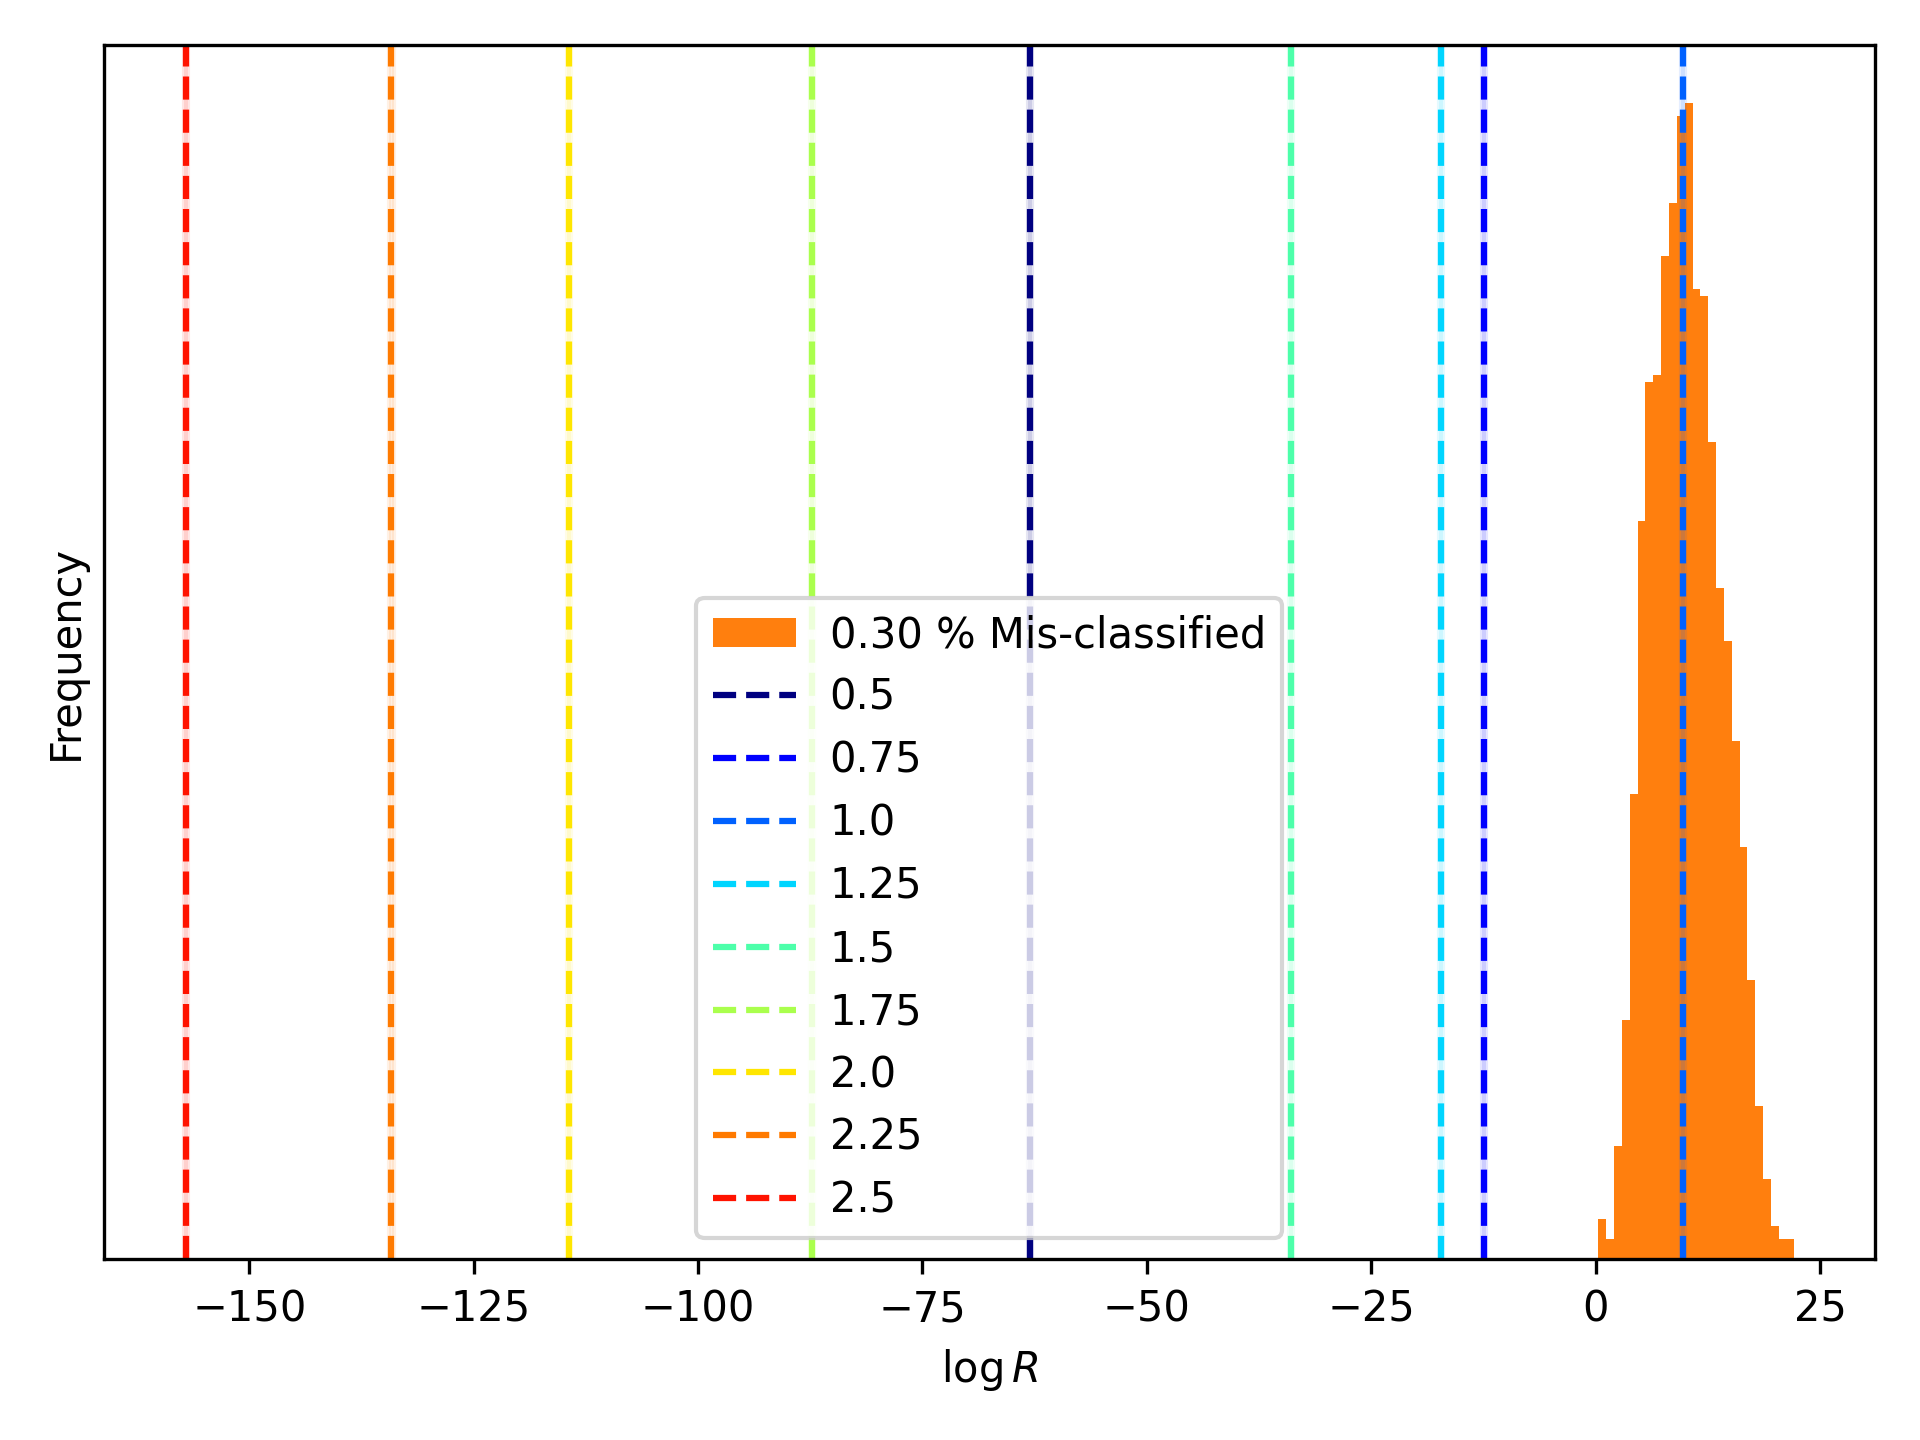
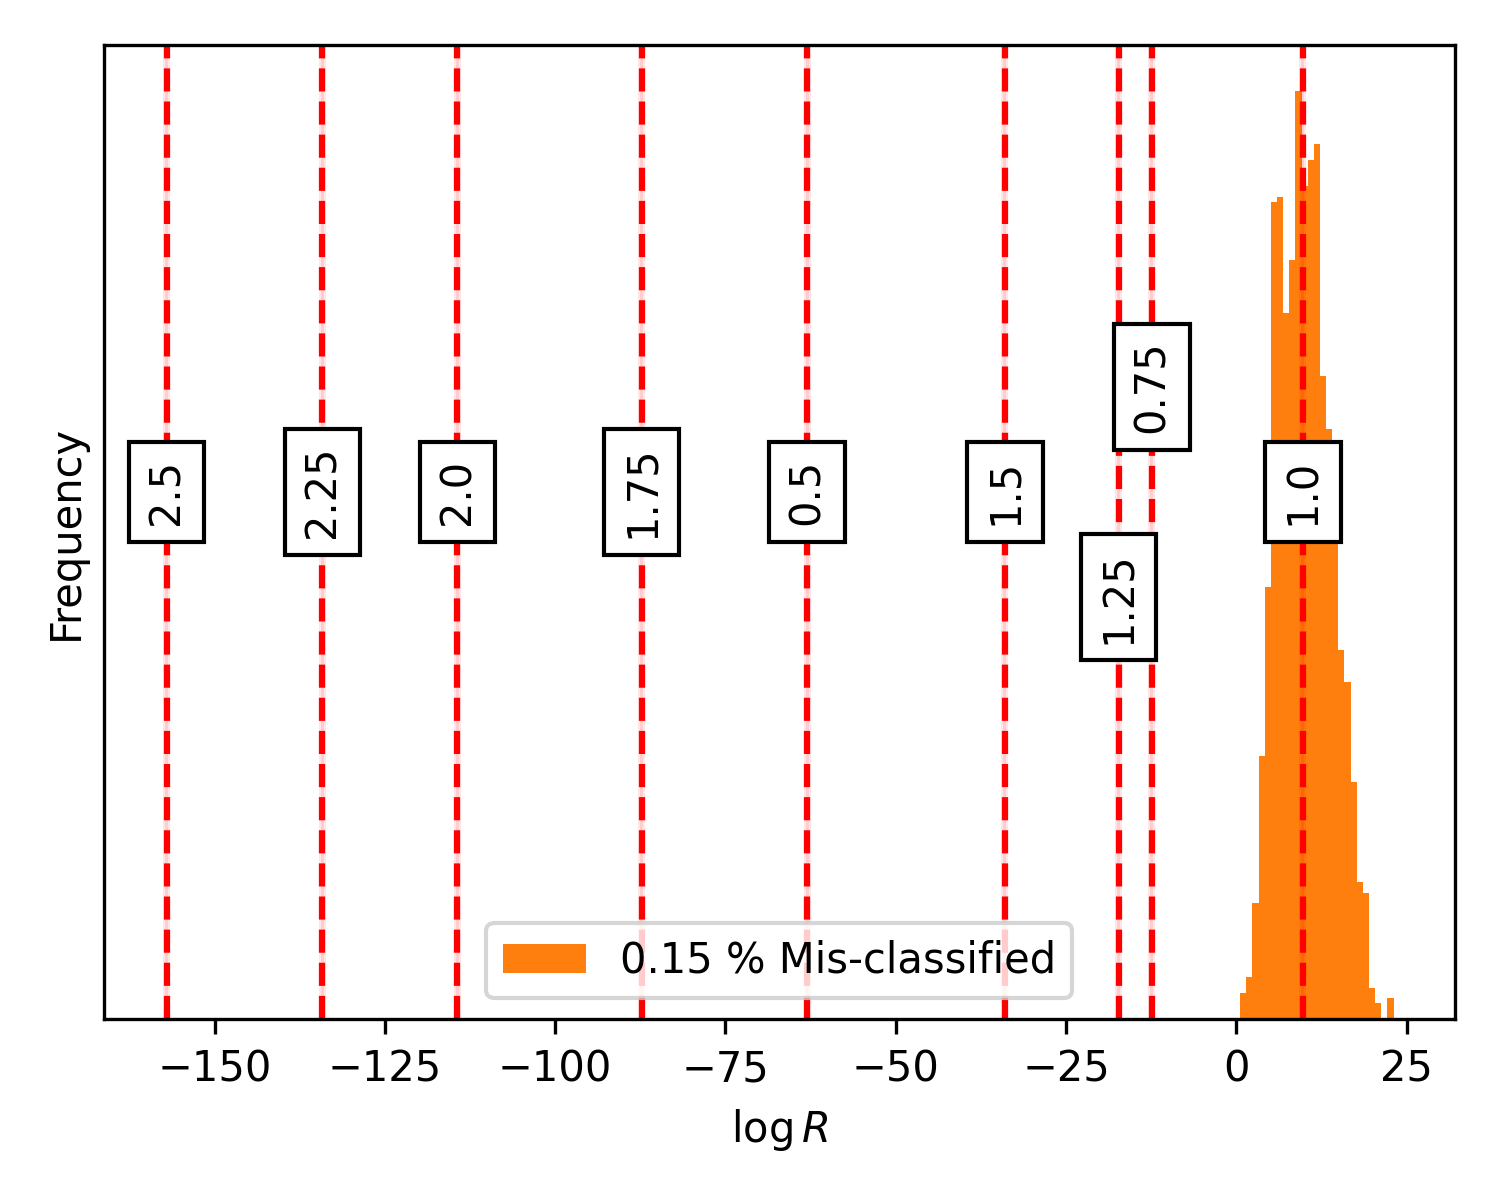
trying to get nice plots

Changed region(s): [[0.0307, 0.0308, 0.9813, 0.9867]]

diff --git a/simple_data_call.py b/simple_data_call.py
@@ -50,11 +50,11 @@ except:
     nrei.build_simulations(exp2, exp1, exp_prior, exp_prior, signal_prior, n=100000)
     model, data_test, labels_test = nrei.training(epochs=1000, batch_size=2000)
     nrei.save('test_model.pkl')
-
+"""
 plt.plot(nrei.loss_history)
 plt.plot(nrei.test_loss_history)
 plt.yscale('log')
-plt.show()
+plt.show()"""
 
 nrei.__call__(iters=2000)
 r = nrei.r_values
@@ -65,26 +65,35 @@ for i in range(len(sigr)):
     if sigr[i] < 0.75:
         c += 1
 
-temperatures = [0.1, 0.15, 0.2, 0.25, 0.3, 0.35, 0.4, 0.45, 0.5]
+temperatures = np.array([0.1, 0.15, 0.2, 0.25, 0.3, 0.35, 0.4, 0.45, 0.5])/0.2
 Rs =[ -63.01687826,  -12.40474379,    9.77660272,  -17.25641865,  -33.974196,
   -87.30443093, -114.3616329,  -134.16389689, -157.02886038,] 
 sigma_Rs = [0.21169332, 0.20684563, 0.21888224, 0.21734393, 0.21426394, 0.21660869,
  0.2113068,  0.22946067, 0.22718888]
 
+# get every other temperature
+temperatures = temperatures[::2]
+Rs = Rs[::2]
+sigma_Rs = sigma_Rs[::2]
 
-plt.hist(r[mask], bins=25, label=f'{c/len(sigr)*100:.2f} % Mis-classified', color='C1')
-plt.yticks([])
+y_pos = [100]*len(temperatures)
+y_pos[1] = 120
+y_pos[3] = 80
+
+fig, axes = plt.subplots(1, 2, figsize=(6.3, 3))
+axes[0].hist(r[mask], bins=25, label=f'{c/len(sigr)*100:.2f} % Mis-classified', color='C1')
+axes[0].set_yticks([])
 for i,t in enumerate(temperatures):
-    plt.axvline(Rs[i], ls='--', label= f'{round(t/0.2, 2)}', color=plt.get_cmap('jet')(i/len(temperatures)))
-    plt.axvspan(Rs[i] - sigma_Rs[i], Rs[i] + sigma_Rs[i], alpha=0.1, color=plt.get_cmap('jet')(i/len(temperatures)))
-plt.xlabel(r'$\log R$')
-plt.ylabel('Frequency')
-plt.tight_layout()
-plt.legend()
-plt.savefig('test_r_hist.png', dpi=300)
-plt.show()
+    axes[0].axvline(Rs[i], ls='--', c='r')
+    axes[0].axvspan(Rs[i] - sigma_Rs[i], Rs[i] + sigma_Rs[i], alpha=0.1, color='r')
+    axes[0].annotate(r'$A_2 = $' + f'{round(t, 2)}'+ r'$A_1$', (Rs[i], y_pos[i]), ha='center', va='center',
+                  rotation=90, bbox=dict(color='w', ec='k'), fontsize=8)
+axes[0].set_xlabel(r'$\log R$')
+axes[0].set_ylabel('Frequency')
+axes[0].legend()
 
-from anesthetic import MCMCSamples
+
+"""from anesthetic import MCMCSamples
 samples = MCMCSamples(data=r[mask], columns=['R'])
 axes = samples.plot_1d('R', fc='C1', ec='k')
 for i,t in enumerate(temperatures):
@@ -96,37 +105,38 @@ plt.ylabel('Frequency')
 plt.tight_layout()
 plt.legend()
 plt.savefig('test_r_kde.png', dpi=300)
-plt.show()
+plt.show()"""
 
 from scipy.stats import ecdf
 
 r  = np.sort(r[mask])
 c = ecdf(r)
 
-plt.plot(r, c.cdf.evaluate(r))
+axes[1].plot(r, c.cdf.evaluate(r))
 for i,t in enumerate(temperatures):
-    print(t, c.cdf.evaluate(Rs[i]))
-    plt.axhline(c.cdf.evaluate(Rs[i]), ls='--',
-                label= f'{round(t/0.2, 2)}', 
-                color=plt.get_cmap('jet')(i/len(temperatures)))
-    plt.axhspan(c.cdf.evaluate(Rs[i] - sigma_Rs[i]), 
+    if temperatures[i] == 1:
+        axes[1].axhline(c.cdf.evaluate(Rs[i]), ls='--',
+                color='r')
+        axes[1].axhspan(c.cdf.evaluate(Rs[i] - sigma_Rs[i]), 
                 c.cdf.evaluate(Rs[i] + sigma_Rs[i]), 
                 alpha=0.1, 
-                color=plt.get_cmap('jet')(i/len(temperatures)))
-"""for i,t in enumerate(temperatures):
-    plt.axvline(Rs[i], ls='--', 
-                label= f'{round(t/0.2, 2)}', 
-                color=plt.get_cmap('jet')(i/len(temperatures)))
-    plt.axvspan(Rs[i] - sigma_Rs[i], Rs[i] + sigma_Rs[i],
-                 alpha=0.1, 
-                 color=plt.get_cmap('jet')(i/len(temperatures)))"""
-plt.xlabel(r'$\log R$')
-plt.ylabel(r'$P(\log R < \log R_{obs})$')
-plt.legend()
+                color='r')
+        axes[1].annotate(r'$A_2 = 1.0 A_1$', (Rs[i], c.cdf.evaluate(Rs[i])), ha='center', va='center',
+                  bbox=dict(color='w', ec='k'), fontsize=8)
+    
+axes[1].axhline(c.cdf.evaluate(Rs[0]), ls='--',
+        color='r')
+axes[1].axhspan(c.cdf.evaluate(Rs[0] - sigma_Rs[i]), 
+        c.cdf.evaluate(Rs[i] + sigma_Rs[i]), 
+        alpha=0.1, 
+        color='r')
+axes[1].annotate(r'In Tension. $A_2 \neq A_1$', (Rs[1], 0.), ha='center', va='center',
+            bbox=dict(color='w', ec='k'), fontsize=8)
+axes[1].set_xlabel(r'$\log R$')
+axes[1].set_ylabel(r'$P(\log R < \log R_{obs})$')
 plt.tight_layout()
-plt.savefig('test_r_cdf.png', dpi=300)
+plt.savefig('test_r_cdf_hist.png', dpi=300)
 plt.show()
-sys.exit(1)
 
 idx = [int(np.random.uniform(0, len(nrei.labels_test), 1)) for i in range(1000)]
 
@@ -155,6 +165,7 @@ for i in range(len(p)):
 cm = [[correct0, wrong0, confused0],
         [correct1, wrong1, confused1]]
 
+fig, axes = plt.subplots(1, 1, figsize=(5, 4))
 plt.imshow(cm, cmap='Blues')
 for i in range(2):
     for j in range(3):
